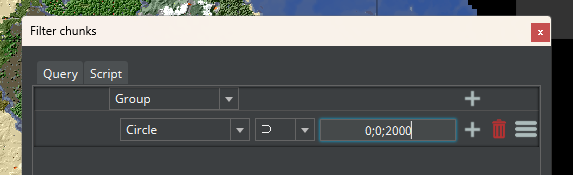
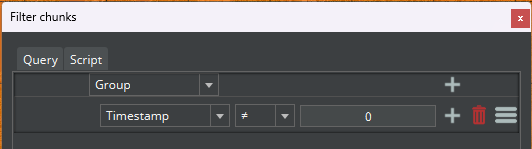
fix: mca selector filtering criteria

Changed region(s): [[0.0, 0.0, 1.0, 1.0]]

diff --git a/welt-generieren.md b/welt-generieren.md
@@ -6,7 +6,7 @@ Allgemeine Informationen siehe hier: [README.md](./README.md)
 Nachfolgend findest du mein dokumentiertes Vorgehen, um dir deine eigene Welt, ggf. mit anderer Größe, zu erzeugen. 
 Karl Olsberg beschreibt in seinen Büchern, dass er den Seed "100200300400500" in der Minecraft-Version 1.8.1 (von 2014!) verwendet hat, um die in seinen Büchern beschrieben Welt zu erzeugen. 
 Bis man diese Welt in einer modernen Minecraft-Installation nutzen kann, braucht es einige Upgrade- und Konvertierungsschritte.  
-Du brauchst einen Windows-PC, ein paar GB Speicherplatz und ein paar Stunden Zeit. Zudem durchaus etwas fortgeschrittenes PC-Wissen rund um Installationen, Dateien und Kommandozeile. Manche der untenstehenden Schritte sind ggf. schon wieder veraltet, wenn du diese Anleitung nutzt, und müssen improvisiert werden. Viel Erfolg!
+Du brauchst einen Windows-PC, ein paar GB Speicherplatz und ein paar Stunden Zeit. Zudem durchaus etwas fortgeschrittenes PC-Wissen rund um Installationen, Dateien und Kommandozeile. Ich habe mir zudem von Google Gemini helfen lassen. Manche der untenstehenden Schritte sind ggf. schon wieder veraltet, wenn du diese Anleitung nutzt, und müssen improvisiert werden. Viel Erfolg!
 
 
 ## Welt auf Minecraft/Spigot 1.8.1 anlegen
@@ -89,7 +89,7 @@ Also müssen wir diese Chunks vervollständigen.
 * Besorge dir das Programm MCA Selector: https://github.com/Querz/mcaselector
 * Öffne deinen Weltordner (File -> Open World)
 * Tools -> Filter Chunks
-  * Wähle "Circle" und gib an: `0;0;2000`. Siehe Screenshot unten. 
+  * Wähle "Timestamp", das Ungleich-Zeichen, und als Wert: 0., um alle Chunks innerhalb deines Kreises auszuwählen. Siehe Screenshot unten. 
 * Tools -> Change Fields
   * Status: `minecraft:full`
   * InhabitedTime: `1200`  (entspricht etwa 5 Minuten Spielzeit)
